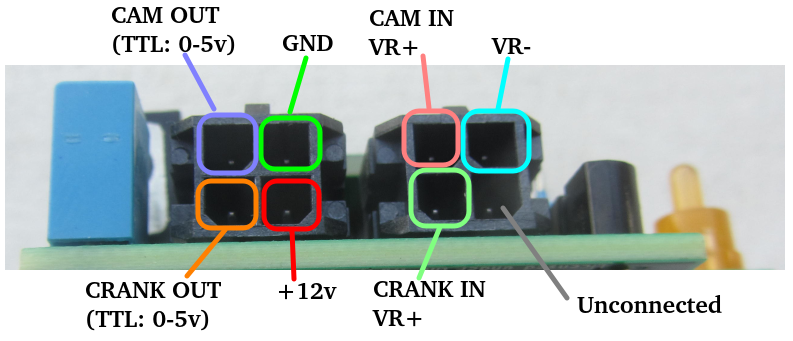
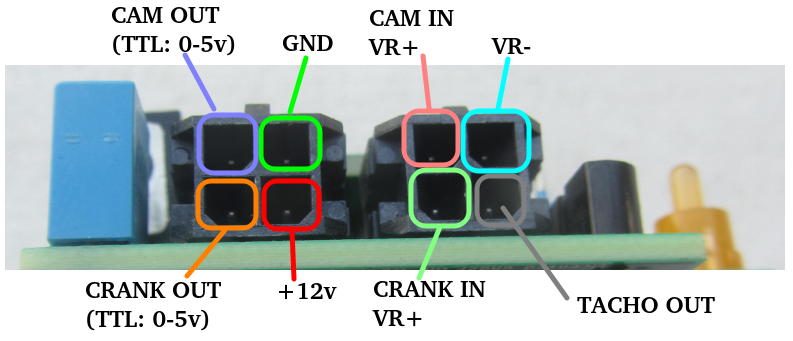
- PCB v1.1 preparation.

diff --git a/README.md b/README.md
@@ -87,13 +87,23 @@ A zoomed picture of the board is shown below. The full bill of materials can be 
 </tr>
 
 <tr>
-<td align="center" valign="center">R3,R5,R7,R9,R11</td>
-<td align="center" valign="center">1K</td>
+<td align="center" valign="center">R3,R5</td>
+<td align="center" valign="center">10K</td>
 </tr>
 
 <tr>
 <td align="center" valign="center">R4,R6</td>
-<td align="center" valign="center">10K</td>
+<td align="center" valign="center">1K</td>
+</tr>
+
+<tr>
+<td align="center" valign="center">R7,R9</td>
+<td align="center" valign="center">47K</td>
+</tr>
+
+<tr>
+<td align="center" valign="center">R11</td>
+<td align="center" valign="center">4K7</td>
 </tr>
 
 <tr>
@@ -107,8 +117,13 @@ A zoomed picture of the board is shown below. The full bill of materials can be 
 </tr>
 
 <tr>
-<td align="center" valign="center">D3,D4,D5,D6</td>
-<td align="center" valign="center">Led (standard 3mm spacing)</td>
+<td align="center" valign="center">D3</td>
+<td align="center" valign="center">Power Led - Red (standard 3mm spacing)</td>
+</tr>
+
+<tr>
+<td align="center" valign="center">D4,D5</td>
+<td align="center" valign="center">Crank and cam Leds - Yellow (standard 3mm spacing)</td>
 </tr>
 
 <tr>
@@ -285,7 +300,8 @@ The inputs to this module are:
 The outputs are:
 <ul>
   <li>CAM TTL (0-5v level single cam pulse - fed into your downstream ECU)</li>
-  <li>CRANK TTL (0-5v level single cam pulse - fed into your downstream ECU)</li>
+  <li>CRANK TTL (0-5v level single crank pulse - fed into your downstream ECU)</li>
+  <li>TACHO (0-12v level square wave - fed to your dash via pin A19 on main wiring harness)</li>
 </ul>
 <p> Note: The crank signal is the 12 pulses per crank rotation. The cam signal is post-processed by the tooth eater, therefore 1 pulse per engine cycle (two crank revolutions).</p>
 </td>
@@ -312,10 +328,10 @@ The outputs are:
 
 <tr>
 <td width="20%">
-v1.0
+v1.1
 </td>
 <td width="60%">
-June 2026
+July 2026
 </td>
 <td width="20%">
 Alex Kiaos
